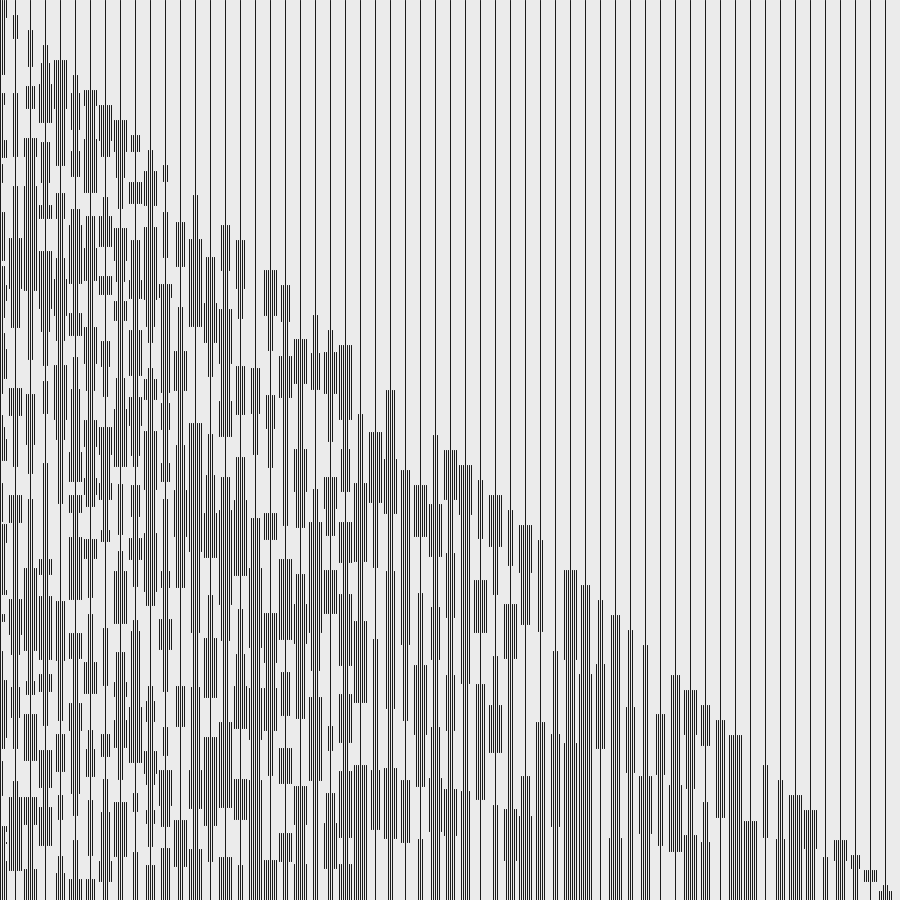
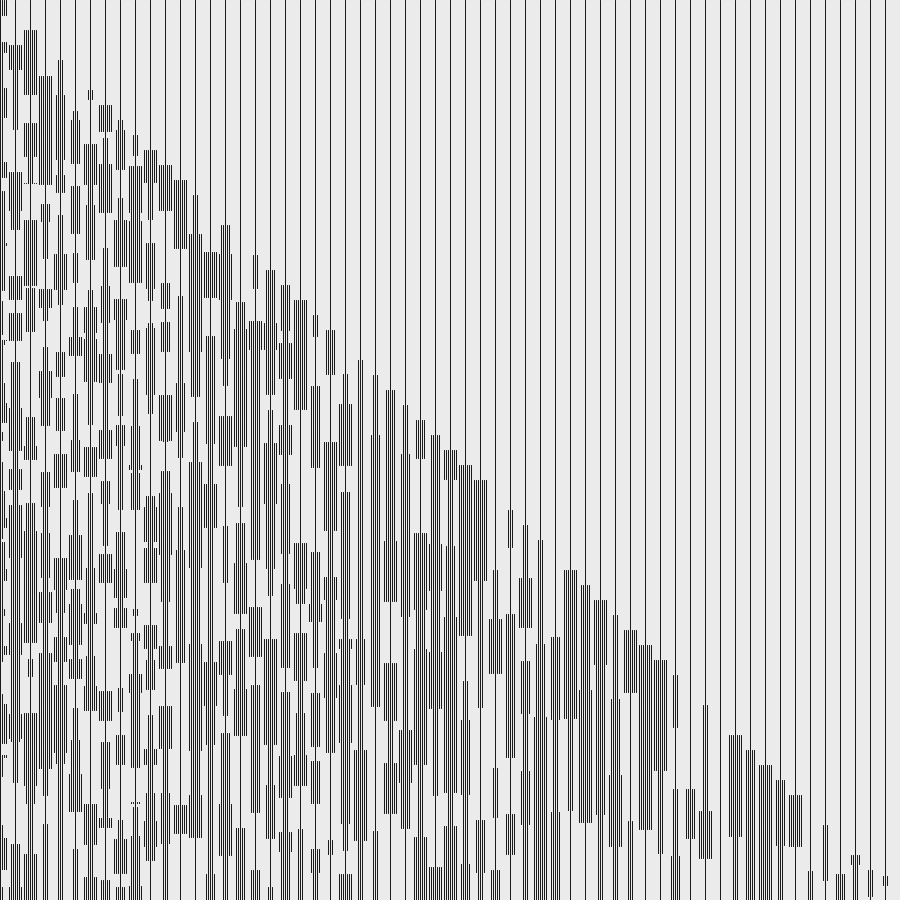
Add s_080

Changed region(s): [[0.0, 0.0311, 0.9644, 1.0], [0.9644, 0.9644, 0.9956, 1.0], [0.1556, 0.84, 0.1867, 0.8711]]

diff --git a/index.html b/index.html
@@ -285,6 +285,16 @@
 
 <hr/>
 
+<a id="s_080" href="#s_080"><h2>#080</h2></a>
+<p>Python code <a class="bold_write" href="https://github.com/berinhard/sketches/tree/master/s_080/" target="_blank">here</a></p>
+
+<div class="video">
+<iframe width="560" height="315" src="https://www.youtube.com/embed/-1dg1fq7HPs" frameborder="0" allow="accelerometer; autoplay; encrypted-media; gyroscope; picture-in-picture" allowfullscreen></iframe>
+</div>
+<p>First try on a more standardized random walker</p>
+
+<hr/>
+
 <a id="s_079" href="#s_079"><h2>#079</h2></a>
 <p>Python code <a class="bold_write" href="https://github.com/berinhard/sketches/tree/master/s_079/" target="_blank">here</a></p>
 

diff --git a/s_080/save_frames.py b/s_080/save_frames.py
@@ -1,0 +1,41 @@
+#####
+# The save_video_frames function saves sketches' frames to be used by `ffmpeg` command to generate videos.
+# For example, if we call the method with the following parameters:
+#
+# save_video_frames(25, 60 * 10)
+#
+# The ffmpeg commands to generate the video would be:
+#
+# $ ffmpeg -framerate 25 -pattern_type glob -i '*.png' -c:v libx264 -r 25 -pix_fmt yuv420p out_youtube.mp4
+#
+# The single loose coupling between the Python code and the ffmpeg is the frame rate.
+#
+# You can also cut it to extract a smaller sample (ideal for Instagram or Twitter)
+# $ ffmpeg -ss 00:00:00 -t 00:00:20 -i out_youtube.mp4 out.mp4
+#####
+
+
+def save_video_frames(frame_rate, seconds, stop_run=True, extension="png", log_frame=True, pg_graphics=None):
+    """
+    GIST: https://gist.github.com/berinhard/d2ef20f361f70b7c0a216957d993efb2
+    Save the required number of frames given for `seconds` with the given `frame_rate`.
+
+    stop_run: calls noLoop() after saving all frames
+    extension: file extension
+    log_frame: enables logging in the terminal
+    """
+    num_frames = frame_rate * seconds
+
+    if log_frame:
+        print("{} /  {} - {}%".format(
+            frameCount, int(num_frames), int(frameCount * 100 / num_frames)
+        ))
+    if frameCount <= num_frames:
+        frame_name = "#" * (len(str(num_frames)))
+        if not pg_graphics:
+            saveFrame("{}.{}".format(frame_name, extension))
+        else:
+            frame_name = frameCount
+            pg_graphics.save("{}.{}".format(frame_name, extension))
+    elif stop_run:
+        noLoop()
